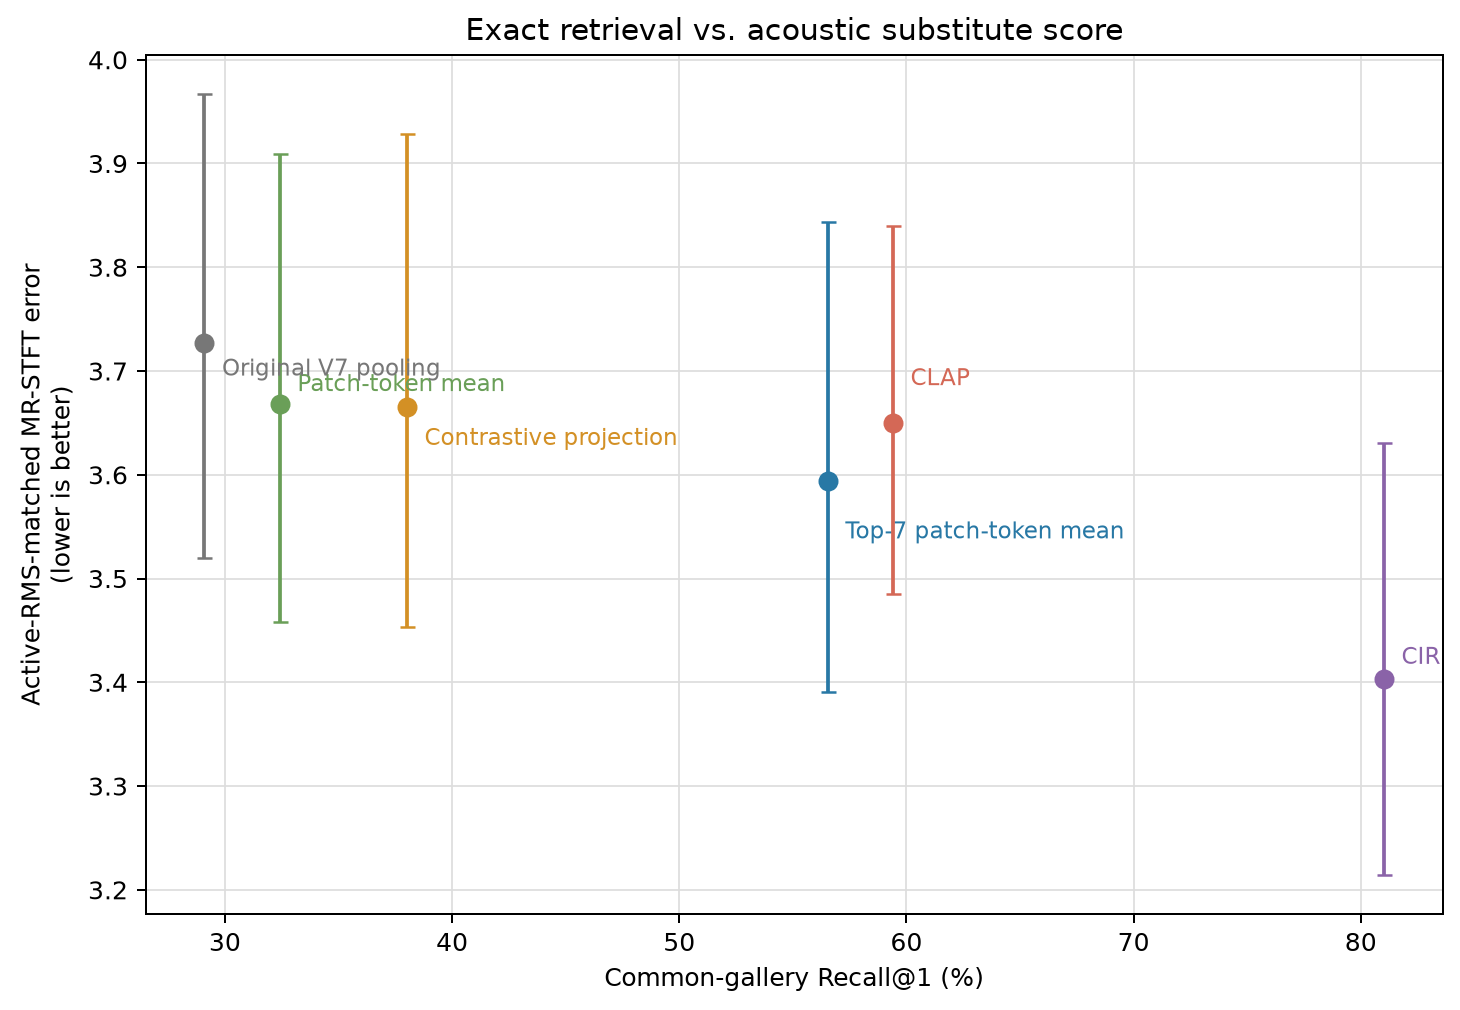
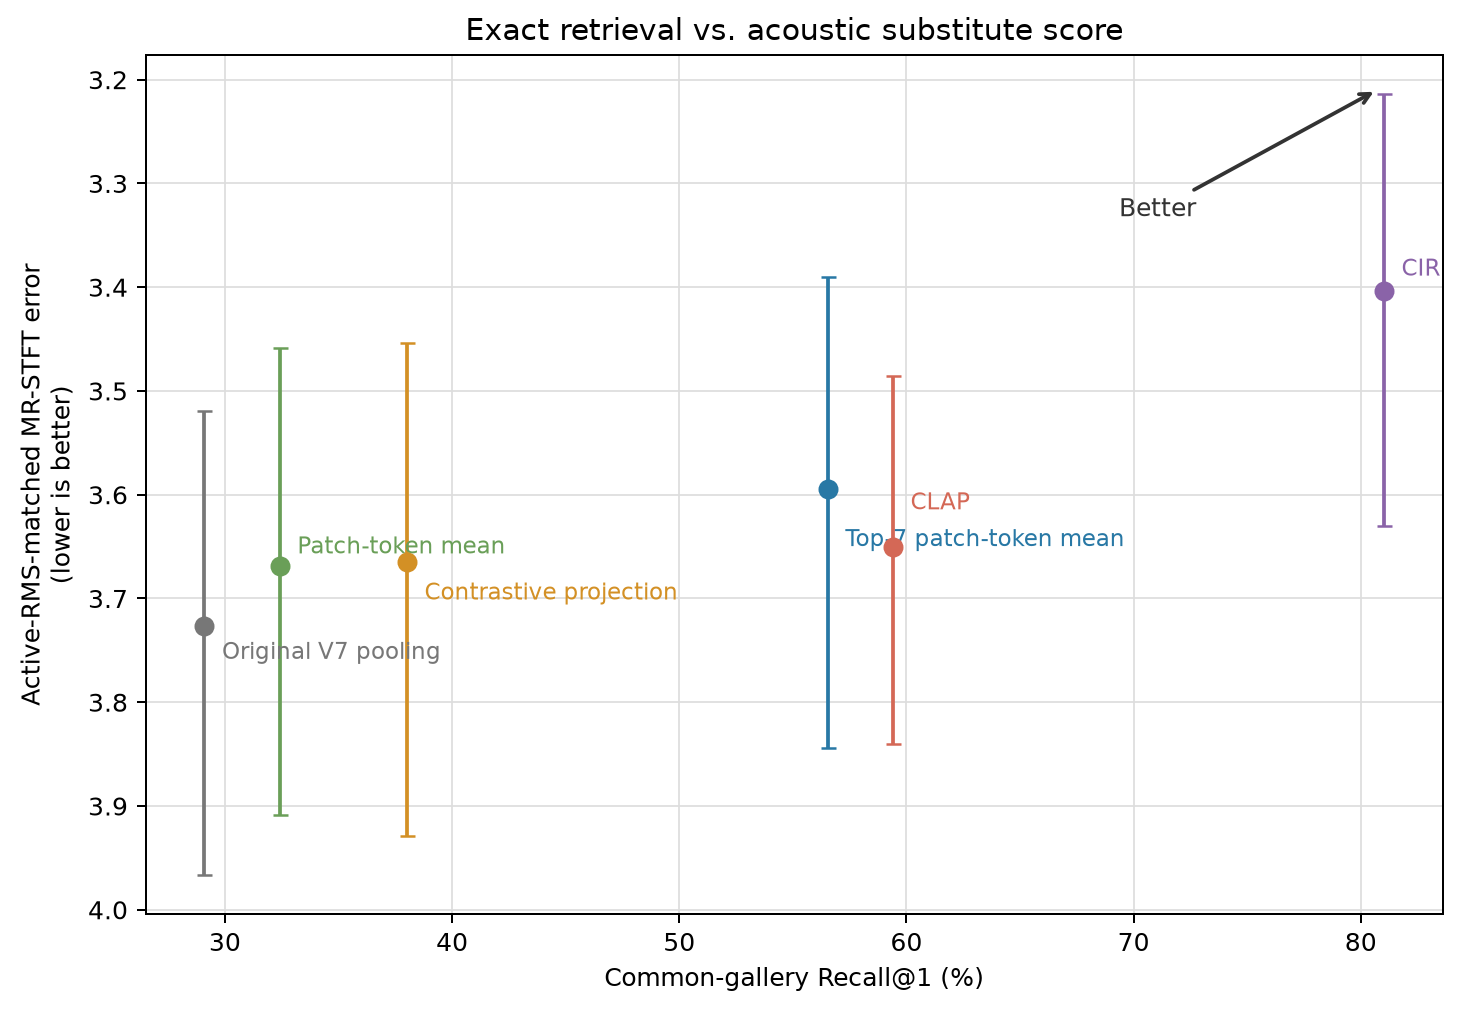
Orient scatter plot toward better results

diff --git a/research/modelling/frozen_encoder_retrieval/run_issue169_stage2.py b/research/modelling/frozen_encoder_retrieval/run_issue169_stage2.py
@@ -244,7 +244,11 @@ def publish(result):
                     fontsize=9, color=palette[arm])
     ax.set(title="Exact retrieval vs. acoustic substitute score",
            xlabel="Common-gallery Recall@1 (%)", ylabel="Active-RMS-matched MR-STFT error\n(lower is better)")
+    ax.invert_yaxis()
     ax.grid(axis="both", color="#dddddd", linewidth=0.7, zorder=0)
+    ax.annotate("Better", xy=(0.95, 0.96), xytext=(0.78, 0.82), xycoords="axes fraction",
+                textcoords="axes fraction", ha="center", va="center",
+                arrowprops={"arrowstyle": "->", "color": "#333333", "lw": 1.5}, color="#333333")
     fig.savefig(scatter, dpi=180, bbox_inches="tight")
     plt.close(fig)
 
@@ -260,7 +264,7 @@ def publish(result):
                      f"{error['mean']:.3f} [{lo:.3f}, {hi:.3f}] | {acoustic['arms'][arm]['rank']['mean']:.1f} |")
     lines += ["", f"Best available substitute: {acoustic['oracle']['mean']:.3f}. Fixed random choice: {acoustic['random']['mean']:.3f}.", "",
               "![Retrieval and substitute results](figures/issue169_v7_stage2.png)", "",
-              "The scatter plot compares common-gallery Recall@1 with mean substitute error; lower error and higher Recall@1 are better. Vertical bars show the clustered 95% interval for substitute error.", "",
+              "The scatter plot compares common-gallery Recall@1 with mean substitute error. The MR-STFT axis is reversed so that higher Recall@1 and lower error both point toward the top right. Vertical bars show the clustered 95% interval for substitute error.", "",
               "![Recall@1 versus MR-STFT scatter plot](figures/issue169_v7_r1_vs_mrstft.png)", "",
               "## Paired substitute differences", "",
               "Negative error difference means the first representation selected a closer-sounding substitute than the comparator.", "",

diff --git a/research/modelling/frozen_encoder_retrieval/reports/VITAL_JEPA_V7_STAGE2.md b/research/modelling/frozen_encoder_retrieval/reports/VITAL_JEPA_V7_STAGE2.md
@@ -17,7 +17,7 @@ Best available substitute: 2.132. Fixed random choice: 4.928.
 
 ![Retrieval and substitute results](figures/issue169_v7_stage2.png)
 
-The scatter plot compares common-gallery Recall@1 with mean substitute error; lower error and higher Recall@1 are better. Vertical bars show the clustered 95% interval for substitute error.
+The scatter plot compares common-gallery Recall@1 with mean substitute error. The MR-STFT axis is reversed so that higher Recall@1 and lower error both point toward the top right. Vertical bars show the clustered 95% interval for substitute error.
 
 ![Recall@1 versus MR-STFT scatter plot](figures/issue169_v7_r1_vs_mrstft.png)
 
